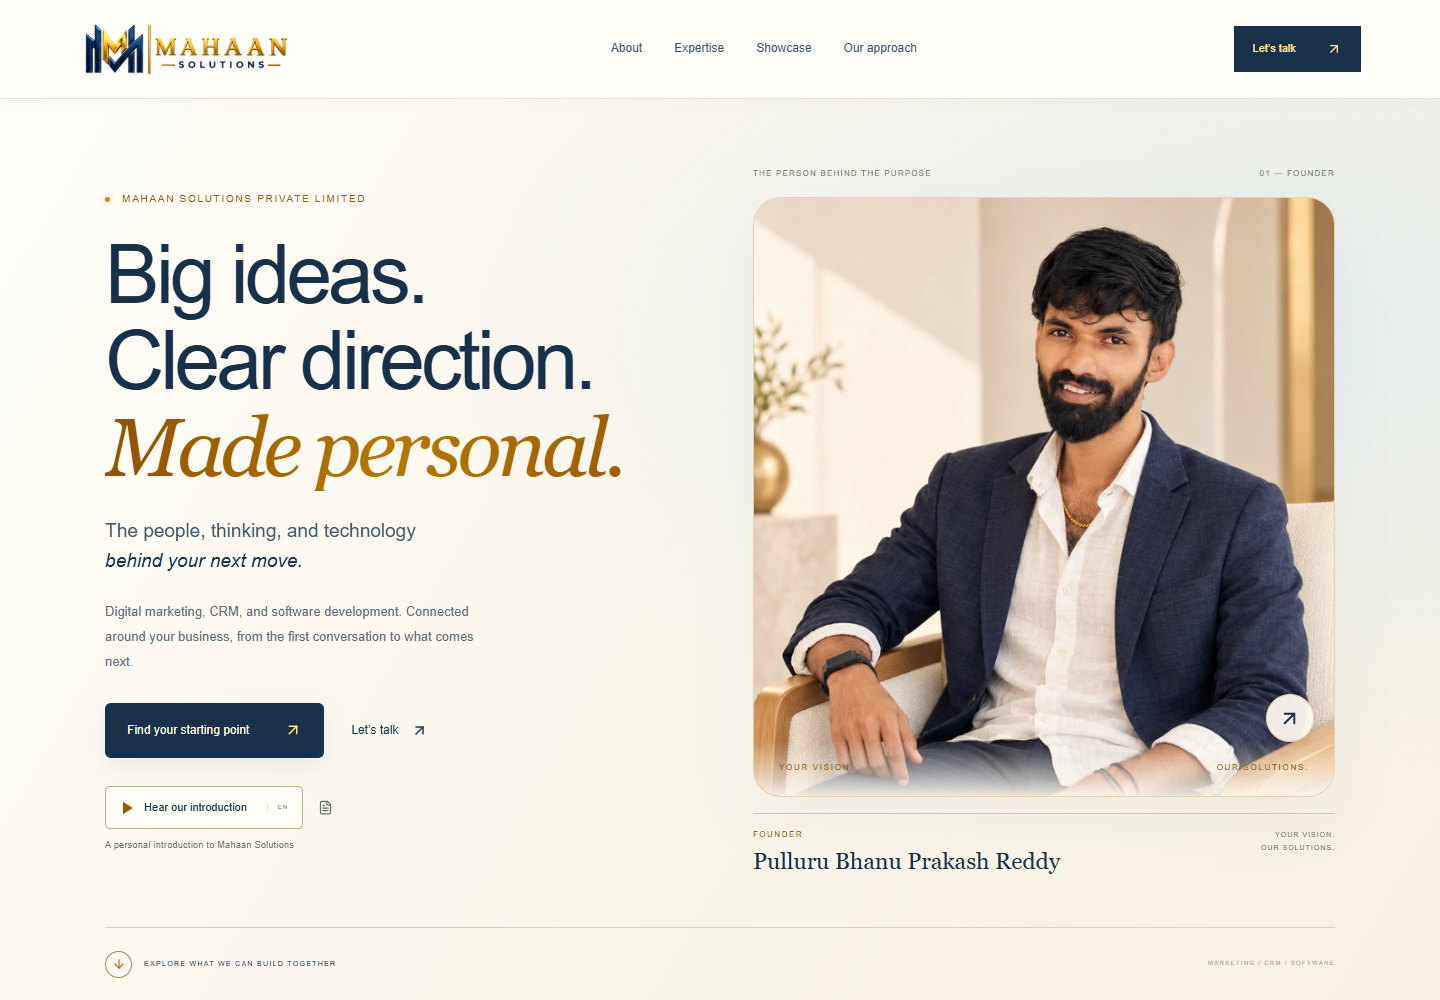
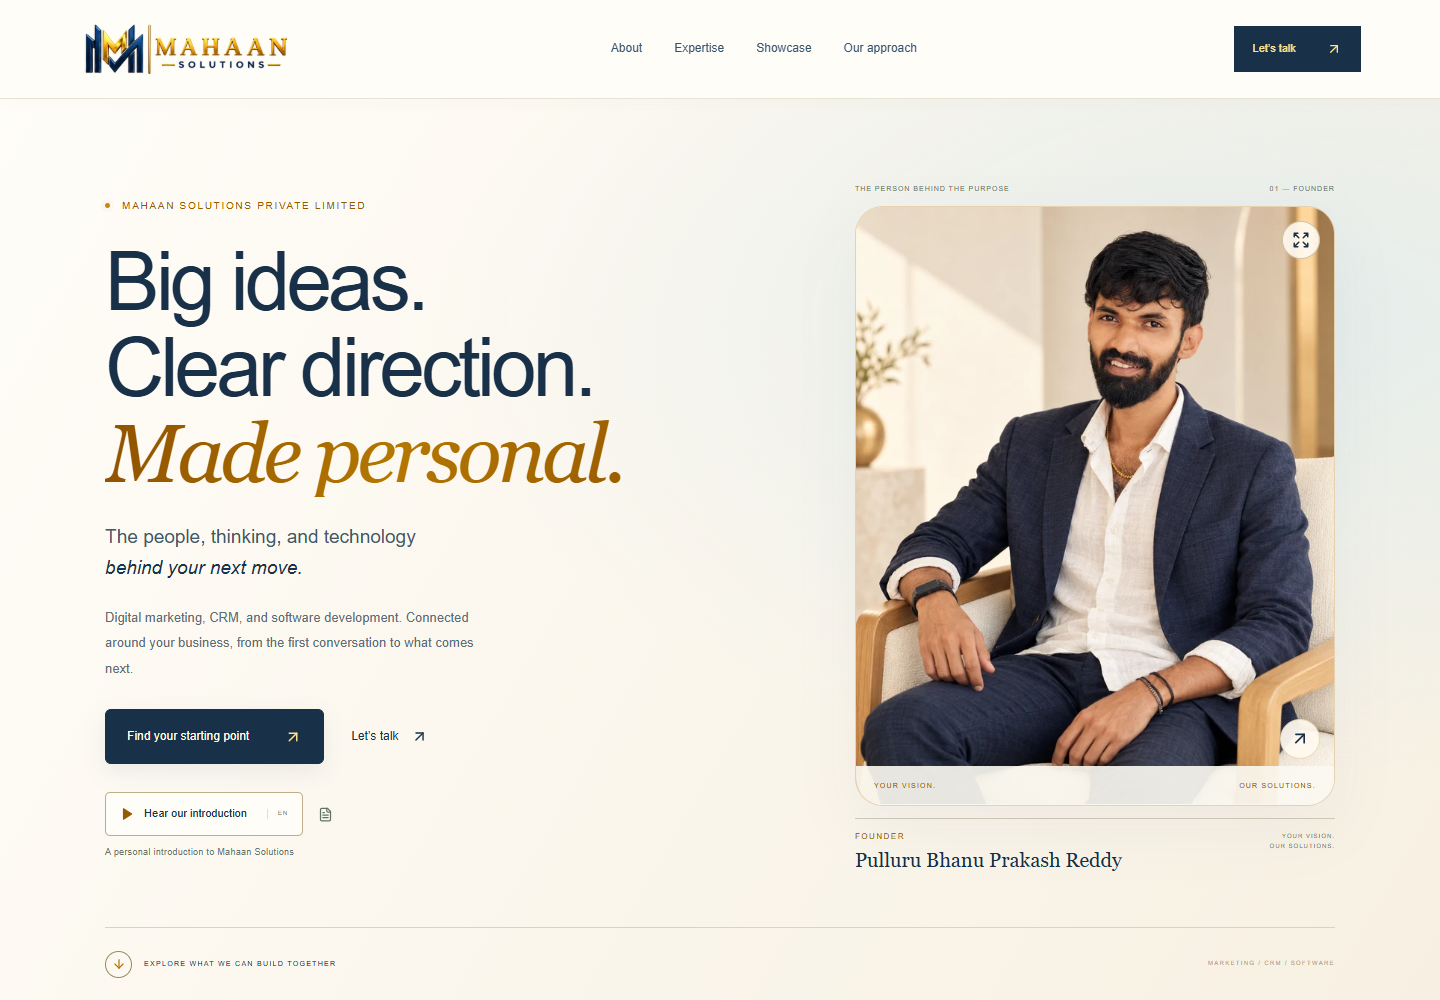
Update Site source

diff --git a/src/components/HomeHero.tsx b/src/components/HomeHero.tsx
@@ -1,4 +1,5 @@
 'use client';
 import {ArrowUpRight,ArrowDown} from 'lucide-react';
 import {NarrationButton} from './FounderVoice';
-export default function HomeHero(){return <section className="hero home-hero editorial-hero" id="home"><div className="home-hero-copy"><div className="eyebrow"><span className="live-dot"/> MAHAAN SOLUTIONS PRIVATE LIMITED</div><h1>Big ideas.<br/>Clear direction.<br/><span>Made personal.</span></h1><p className="home-hero-statement">The people, thinking, and technology<br/><em>behind your next move.</em></p><p className="home-hero-description">Digital marketing, CRM, and software development. Connected around your business, from the first conversation to what comes next.</p><div className="home-hero-actions"><a className="button button-gold" href="#expertise">Find your starting point <ArrowUpRight size={18}/></a><a href="#contact" className="home-secondary-cta">Let’s talk <ArrowUpRight size={17}/></a></div><div className="hero-founder-control"><NarrationButton scene="intro" label="Hear our introduction"/><span>A personal introduction to Mahaan Solutions</span></div></div><div className="founder-editorial"><div className="portrait-heading"><span>THE PERSON BEHIND THE PURPOSE</span><span>01 — FOUNDER</span></div><div className="portrait-gallery studio-gallery"><img src="/images/founder/studio-portrait-v2.webp" srcSet="/images/founder/studio-portrait-v2-small.webp 640w, /images/founder/studio-portrait-v2.webp 1024w" sizes="(max-width:760px) 88vw, 42vw" alt="AI-assisted editorial portrait of Pulluru Bhanu Prakash Reddy, founder of Mahaan Solutions" fetchPriority="high"/><div className="studio-caption"><span>YOUR VISION.</span><span>OUR SOLUTIONS.</span></div><a className="portrait-connect" href="#contact" aria-label="Talk to the founder"><ArrowUpRight size={23}/></a></div><div className="portrait-credit"><div><small>FOUNDER</small><strong>Pulluru Bhanu Prakash Reddy</strong></div><span>YOUR VISION.<br/>OUR SOLUTIONS.</span></div></div><div className="home-hero-baseline"><a href="#expertise"><span><ArrowDown size={14}/></span> EXPLORE WHAT WE CAN BUILD TOGETHER</a><span>MARKETING / CRM / SOFTWARE</span></div></section>}
+import PortraitViewer from './PortraitViewer';
+export default function HomeHero(){return <section className="hero home-hero editorial-hero" id="home"><div className="home-hero-copy"><div className="eyebrow"><span className="live-dot"/> MAHAAN SOLUTIONS PRIVATE LIMITED</div><h1>Big ideas.<br/>Clear direction.<br/><span>Made personal.</span></h1><p className="home-hero-statement">The people, thinking, and technology<br/><em>behind your next move.</em></p><p className="home-hero-description">Digital marketing, CRM, and software development. Connected around your business, from the first conversation to what comes next.</p><div className="home-hero-actions"><a className="button button-gold" href="#expertise">Find your starting point <ArrowUpRight size={18}/></a><a href="#contact" className="home-secondary-cta">Let’s talk <ArrowUpRight size={17}/></a></div><div className="hero-founder-control"><NarrationButton scene="intro" label="Hear our introduction"/><span>A personal introduction to Mahaan Solutions</span></div></div><div className="founder-editorial"><div className="portrait-heading"><span>THE PERSON BEHIND THE PURPOSE</span><span>01 — FOUNDER</span></div><div className="portrait-gallery studio-gallery"><PortraitViewer/><img src="/images/founder/studio-portrait-v2.webp" srcSet="/images/founder/studio-portrait-v2-small.webp 640w, /images/founder/studio-portrait-v2.webp 1024w" sizes="(max-width:760px) 88vw, 42vw" alt="AI-assisted editorial portrait of Pulluru Bhanu Prakash Reddy, founder of Mahaan Solutions" fetchPriority="high"/><a className="portrait-connect" href="#contact" aria-label="Talk to the founder"><ArrowUpRight size={23}/></a></div><div className="portrait-credit"><div><small>FOUNDER</small><strong>Pulluru Bhanu Prakash Reddy</strong></div><span>YOUR VISION.<br/>OUR SOLUTIONS.</span></div></div><div className="home-hero-baseline"><a href="#expertise"><span><ArrowDown size={14}/></span> EXPLORE WHAT WE CAN BUILD TOGETHER</a><span>MARKETING / CRM / SOFTWARE</span></div></section>}

diff --git a/src/styles/portrait-layout.css b/src/styles/portrait-layout.css
@@ -1,0 +1,5 @@
+/* Respect the complete 4:5 photograph instead of cover-cropping a fixed rectangle. */
+.editorial-hero{height:auto;min-height:calc(100svh - var(--nav-height,99px));max-height:none;overflow:visible;padding-top:36px;padding-bottom:78px}.founder-editorial{justify-self:end;width:min(100%,calc((100svh - var(--nav-height,99px) - 145px)*.8));max-width:480px;min-width:270px}.studio-gallery{height:auto;aspect-ratio:4 / 5;max-height:none;width:100%;overflow:hidden}.studio-gallery>img{position:absolute;inset:0;width:100%;height:100%;object-fit:contain;object-position:center;transform:none}.studio-caption{padding:14px 18px;background:#fbf8f1e8;font-size:7px;letter-spacing:1.2px}.studio-gallery .portrait-connect{bottom:46px;width:40px;height:40px;right:14px}.studio-gallery .portrait-connect svg{width:20px}.portrait-heading{font-size:7px;letter-spacing:1px;margin-bottom:12px}.portrait-credit{margin-top:12px;padding-top:12px}.portrait-credit strong{font-size:20px}.portrait-credit>span{font-size:6px}.portrait-expand{position:absolute;top:14px;right:14px;z-index:4;display:grid;place-items:center;border:1px solid #d1c3a4;background:#fffaf0e8;color:#183048;border-radius:50%;width:38px;height:38px;transition:transform .2s,background .2s}.portrait-expand:hover{transform:scale(1.07);background:#fffdf8}.portrait-dialog{border:1px solid #d3c6aa;border-radius:18px;padding:12px;background:#fffdf8;max-width:calc(100vw - 32px);max-height:calc(100dvh - 32px);overflow:auto;box-shadow:0 25px 100px #18304830;color:#183048}.portrait-dialog::backdrop{background:#102738b3;backdrop-filter:blur(7px)}.portrait-dialog img{display:block;width:auto;height:auto;max-width:100%;max-height:calc(100dvh - 130px);margin:auto;border-radius:10px;object-fit:contain}.portrait-dialog-close{position:absolute;right:20px;top:20px;width:36px;height:36px;border-radius:50%;background:#fffdf3eb;border:1px solid #ccb98d;color:#183048;display:grid;place-items:center}.portrait-dialog p{font-size:13px;margin:10px 5px 2px}.portrait-dialog p span{font-size:10px;display:block;color:#67756b;margin-top:2px}
+@media(min-width:761px) and (max-height:800px){.editorial-hero{padding-top:24px;padding-bottom:58px;gap:5%}.editorial-hero h1{font-size:clamp(44px,4.6vw,62px);margin:18px 0;line-height:1.02;letter-spacing:-2.7px}.editorial-hero .eyebrow{font-size:8px;letter-spacing:1px}.home-hero-statement{font-size:16px;line-height:1.45}.home-hero-description{font-size:12px;line-height:1.7;margin:14px 0 18px}.home-hero-actions .button{padding:13px 17px;font-size:11px}.hero-founder-control{margin-top:17px}.hero-founder-control .narration-button{padding:9px 11px;font-size:10px}.hero-founder-control>span{font-size:8px}.home-hero-baseline{font-size:6px;height:44px}.portrait-credit strong{font-size:18px}.portrait-heading{font-size:6px;letter-spacing:.6px}.portrait-credit>span{display:none}}
+@media(max-width:760px){.editorial-hero{height:auto;min-height:0;max-height:none;padding:34px 6% 46px;gap:30px}.founder-editorial{width:100%;max-width:420px;min-width:0;align-self:center;justify-self:center}.studio-gallery{height:auto;width:100%;aspect-ratio:4 / 5;border-radius:22px}.studio-gallery>img{height:100%;width:100%;object-fit:contain;object-position:center}.portrait-heading{font-size:6px}.portrait-credit strong{font-size:18px}.portrait-credit>span{display:none}.home-hero-baseline{height:auto;margin-top:4px;padding-top:16px}.portrait-dialog{padding:8px}.portrait-dialog p{font-size:12px}.portrait-dialog p span{font-size:9px}}
+@media(prefers-reduced-motion:reduce){.portrait-expand{transition:none}}

diff --git a/src/components/PortraitViewer.tsx b/src/components/PortraitViewer.tsx
@@ -1,0 +1,4 @@
+'use client';
+import {useRef} from 'react';
+import {Expand,X} from 'lucide-react';
+export default function PortraitViewer(){const dialog=useRef<HTMLDialogElement>(null);return <><button className="portrait-expand" onClick={()=>dialog.current?.showModal()} aria-label="View full founder portrait" title="View full portrait"><Expand size={18}/></button><dialog className="portrait-dialog" ref={dialog} aria-label="Full founder portrait" onClick={e=>{if(e.target===e.currentTarget)dialog.current?.close()}}><button className="portrait-dialog-close" onClick={()=>dialog.current?.close()} aria-label="Close full portrait"><X size={21}/></button><img src="/images/founder/studio-portrait-v2.webp" alt="Full AI-assisted editorial portrait of Pulluru Bhanu Prakash Reddy seated in an ivory studio"/><p>Pulluru Bhanu Prakash Reddy <span>Founder · Mahaan Solutions</span></p></dialog></>}

diff --git a/src/app/layout.tsx b/src/app/layout.tsx
@@ -5,6 +5,7 @@ import '@/styles/light-editorial.css';
 import '@/styles/editorial-experience.css';
 import '@/styles/brand-palette.css';
 import '@/styles/navigation-polish.css';
+import '@/styles/portrait-layout.css';
 export const metadata: Metadata = {
   metadataBase: new URL(process.env.NEXT_PUBLIC_SITE_URL || 'http://localhost:3000'),
   title:{default:'Mahaan Solutions — Your Vision. Our Solutions.', template:'%s | Mahaan Solutions'},

diff --git a/docs/PORTRAIT-LAYOUT.md b/docs/PORTRAIT-LAYOUT.md
@@ -1,0 +1,7 @@
+# Portrait framing and full-image viewer
+
+The founder image now keeps the generated photograph's full 4:5 aspect ratio. The previous fixed-height cover crop is replaced with contain sizing. The desktop portrait width responds to available viewport height; short desktop viewports use more compact hero spacing and typography. The hero can grow naturally rather than clipping its contents.
+
+PortraitViewer.tsx provides a native modal dialog with the complete image, a close button, Escape dismissal and browser-managed focus restoration. The portrait remains an AI-assisted image; no new generation or identity modification was needed for this update.
+
+scripts/portrait-layout-qa.cjs checks the reference screenshot size (1279x648), 1440x900, 1024x600 and mobile 390x844. It verifies full-image sizing, short desktop visibility, no horizontal overflow, viewer opening, Escape dismissal and focus return. Navigation and phone visibility are checked by scripts/navigation-qa.cjs.
